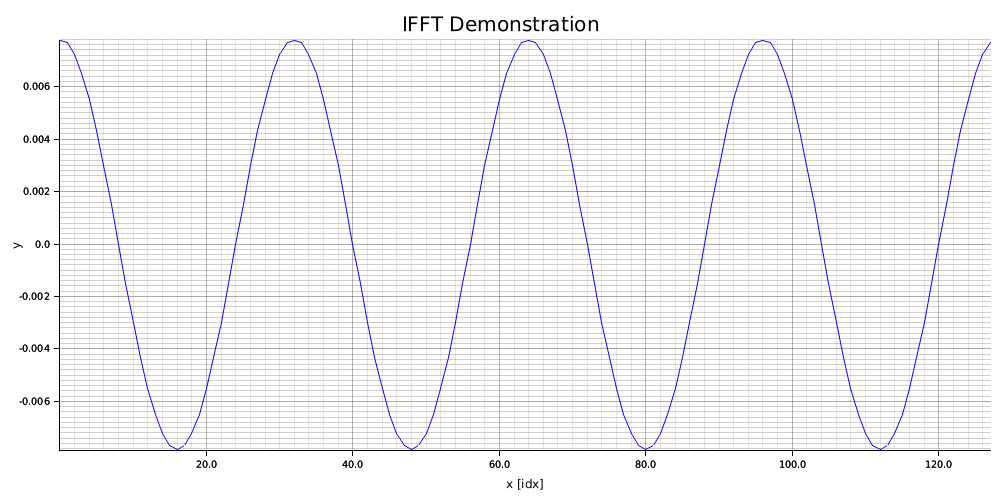
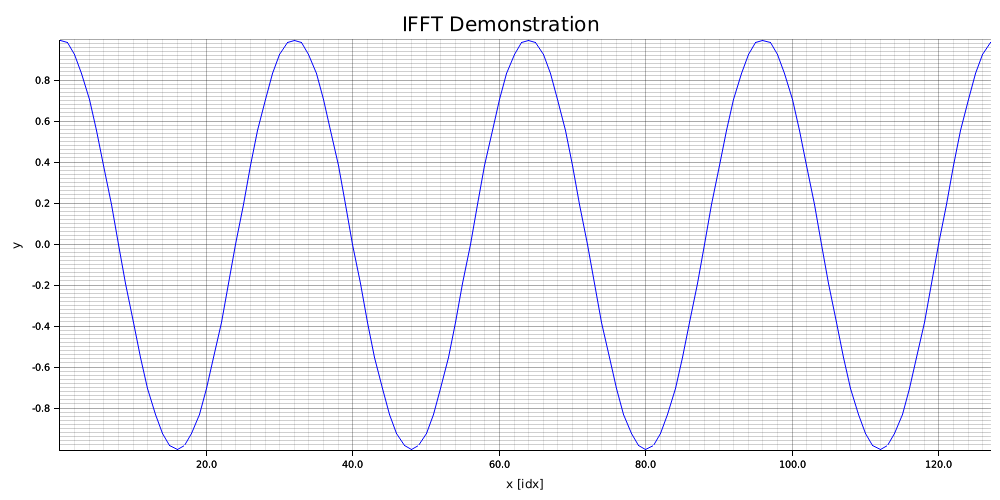
fix corrects fft scaling

Changed region(s): [[0.031, 0.06, 0.992, 0.9]]

diff --git a/src/vec/complex/fft.rs b/src/vec/complex/fft.rs
@@ -7,6 +7,12 @@ use mixed_num::complex::*;
 
 use crate::*;
 
+#[derive(PartialEq)]
+enum FftDirection {
+    Forward,
+    Backward,
+}
+
 /// Check if x is a power of two.
 /// 
 /// ## Argument
@@ -152,10 +158,10 @@ fn bitreverse_order<T>( arr: &mut [Cartesian<T>] )
 ///                         Cartesian::new(0.0,  0.25 )] );
 /// ```
 pub fn fft<T>( array: &mut [Cartesian<T>] )
-    where T: MixedReal + MixedNumSigned + MixedTrigonometry + MixedSqrt + MixedWrapPhase + MixedOps + MixedPi + MixedZero + MixedPowi
+    where T: MixedReal + MixedNumSigned + MixedNumConversion<T> + MixedTrigonometry + MixedSqrt + MixedWrapPhase + MixedOps + MixedPi + MixedZero + MixedPowi
 {
     // Process fft.
-    fft_processor(array, T::mixed_from_num(1));
+    fft_processor(array, FftDirection::Forward);
 
     // Decimation-in-freqency.
     bitreverse_order(array); // Bitreverse order
@@ -184,21 +190,21 @@ pub fn fft<T>( array: &mut [Cartesian<T>] )
 /// use fixed::types::extra::U28 as U;
 /// 
 /// const N:usize = 4;
-/// let mut arr  = vec![ Cartesian::new(1f32, 0f32 ); N  ];
+/// let mut arr  = vec![ Cartesian::new(0f32, 0f32 ); N  ];
 ///
-/// arr[3].re = 0f32;
+/// arr[3].re = 1f32;
 /// 
 /// ifft( &mut arr );
-/// assert_eq!( arr, vec![  Cartesian::new(0.75, 0.0  ),
-///                         Cartesian::new(0.0,  0.25 ),
-///                         Cartesian::new(0.25, 0.0  ),
-///                         Cartesian::new(0.0, -0.25 )] );
+/// assert_eq!( arr, vec![  Cartesian::new(4.0, 0.0  ),
+///                         Cartesian::new(0.0, -4.0 ),
+///                         Cartesian::new(-4.0, 0.0  ),
+///                         Cartesian::new(0.0, 4.0 )] );
 /// ```
 pub fn ifft<T>( vec: &mut Vec<Cartesian<T>> )
-    where T: MixedReal + MixedNumSigned + MixedTrigonometry + MixedSqrt + MixedWrapPhase + MixedOps + MixedPi + MixedZero + MixedOps + MixedPowi
+    where T: MixedReal + MixedNumSigned + MixedNumConversion<T> + MixedTrigonometry + MixedSqrt + MixedWrapPhase + MixedOps + MixedPi + MixedZero + MixedOps + MixedPowi
 {
     // Process fft.
-    fft_processor(vec, T::mixed_from_num(-1));
+    fft_processor(vec, FftDirection::Backward);
     // Decimation-in-freqency.
     bitreverse_order(vec); // Bitreverse order
 }
@@ -228,7 +234,6 @@ pub fn calculate_twiddle_factors<T>( n: usize, dir: T) -> crate::Vec<Cartesian<T
     let mut w = crate::Vec::<Cartesian<T>>::new_with_capacity(n/2);
 
     // Calculate Twiddle factor W.
-
     let mut angle:T = dir*-<T>::mixed_tau();
     for _i in 0..log2(n)
     {
@@ -246,16 +251,29 @@ pub fn calculate_twiddle_factors<T>( n: usize, dir: T) -> crate::Vec<Cartesian<T
         w.push_back( Cartesian::new( real, imag ) );
     }
     return w;
-}
+} 
 
 /// Shared fft processor for fft and ifft.
 /// Requires bit-reversion afterwards.
-fn fft_processor<T>( array: &mut [Cartesian<T>], dir: T )
-    where T: MixedReal + MixedNumSigned + MixedTrigonometry + MixedSqrt + MixedWrapPhase + MixedOps + MixedPi + MixedZero + MixedPowi
+fn fft_processor<T>( array: &mut [Cartesian<T>], dir: FftDirection )
+    where T: MixedReal + MixedNumSigned + MixedNumConversion<T> + MixedTrigonometry + MixedSqrt + MixedWrapPhase + MixedOps + MixedPi + MixedZero + MixedPowi
 {
+    let scale_factor:T;
+    let dir_val:T;
+    if dir == FftDirection::Forward
+    {
+        dir_val = T::mixed_from_num(1);
+        scale_factor=T::mixed_from_num(0.5);
+    }
+    else
+    {
+        dir_val = T::mixed_from_num(-1);
+        scale_factor=T::mixed_from_num(1);
+    }
+
     let n = array.len();
 
-    let w = calculate_twiddle_factors(n, dir);
+    let w = calculate_twiddle_factors(n, dir_val);
 
     // Number of butterfly computations per block.
     let mut num_butt:   usize = n/2;
@@ -270,7 +288,7 @@ fn fft_processor<T>( array: &mut [Cartesian<T>], dir: T )
     {
         // Iterate over blocks.
         for block in 0..num_blocks
-        {   
+        {       
             // Calculate indexes
             let pa = (block*n)/num_blocks;
             let pb = (block*n)/num_blocks + num_butt;
@@ -279,8 +297,8 @@ fn fft_processor<T>( array: &mut [Cartesian<T>], dir: T )
             for butt in 0..num_butt
             {
                 // Scale values to avoid overflow.
-                let mut a = mixed_num::div_scalar_cartesian( array[pa+butt], T::mixed_from_num(2) );
-                let mut b = mixed_num::div_scalar_cartesian( array[pb+butt], T::mixed_from_num(2) );
+                let mut a = array[pa+butt]* scale_factor;
+                let mut b = array[pb+butt]* scale_factor;
 
                 let w_idx:usize = w_idx_step_size*(butt);
                 let w_temp = w[ w_idx ];

diff --git a/src/vec/complex.rs b/src/vec/complex.rs
@@ -202,7 +202,7 @@ impl <T: MixedAbs> crate::traits::Mag<T> for Vec<T> {
     }
 }
 
-impl<T: MixedReal + MixedNumSigned + MixedTrigonometry + MixedSqrt + MixedWrapPhase + MixedOps + MixedPi + MixedZero + MixedPowi> Psd<T> for Vec<Cartesian<T>> {
+impl<T: MixedReal + MixedNumSigned + MixedNumConversion<T> + MixedTrigonometry + MixedSqrt + MixedWrapPhase + MixedOps + MixedPi + MixedZero + MixedPowi> Psd<T> for Vec<Cartesian<T>> {
     /// Calculate the Power Spectral Density (PSD) in linear scale of a signal.
     /// 
     /// Expects the signal length to be a power of two. If not, the signal is zero padded.
@@ -225,12 +225,12 @@ impl<T: MixedReal + MixedNumSigned + MixedTrigonometry + MixedSqrt + MixedWrapPh
     /// 
     /// assert_eq!(psd.to_string(), "[ 0.056531776, 0.87694174, 0.026191715, 0.009336119, 0.005968219, 0.0054317378, 0.006799792, 0.012798772 ]" );
     /// 
-    /// let signal = Vec::osc(angular_frequency, phase_rad, 256);
+    /// let signal = Vec::osc(angular_frequency, phase_rad, 128);
     /// let mut psd = signal.psd();
     /// 
     /// 
     /// let step:f32 = 2f32*f_sample/(psd.len() as f32);
-    /// let x_vec = Vec::lin_range(0f32, 2f32*f_sample-step, psd.len());
+    /// let x_vec    = Vec::lin_range(0f32, 2f32*f_sample-step, psd.len());
     /// 
     /// psd.pow2db();
     /// 
@@ -256,7 +256,7 @@ impl<T: MixedReal + MixedNumSigned + MixedTrigonometry + MixedSqrt + MixedWrapPh
     }
 }
 
-impl <T: MixedReal + MixedNumSigned + MixedTrigonometry + MixedSqrt + MixedWrapPhase + MixedOps + MixedPi + MixedZero + MixedPowi> traits::Fft for Vec<Cartesian<T>> {
+impl <T: MixedReal + MixedNumSigned + MixedNumConversion<T> + MixedTrigonometry + MixedSqrt + MixedWrapPhase + MixedOps + MixedPi + MixedZero + MixedPowi> traits::Fft for Vec<Cartesian<T>> {
     /// Calculate the Raddix-2 FFT for self.
     /// Scaled for each butterfly computation.
     /// Requires input size to be a power of two.
@@ -283,7 +283,7 @@ impl <T: MixedReal + MixedNumSigned + MixedTrigonometry + MixedSqrt + MixedWrapP
     }
 }
 
-impl <T: MixedReal + MixedNumSigned + MixedTrigonometry + MixedSqrt + MixedWrapPhase + MixedOps + MixedPi + MixedZero + MixedPowi> traits::Ifft for Vec<Cartesian<T>> {
+impl <T: MixedReal + MixedNumSigned + MixedNumConversion<T> + MixedTrigonometry + MixedSqrt + MixedWrapPhase + MixedOps + MixedPi + MixedZero + MixedPowi> traits::Ifft for Vec<Cartesian<T>> {
     /// Calculate the Raddix-2 IFFT for self.
     /// Scaled for each butterfly computation.
     /// Requires input size to be a power of two.

diff --git a/src/vec/plot.rs b/src/vec/plot.rs
@@ -150,3 +150,4 @@ impl <T:MixedNum + MixedReal + MixedNumSigned + MixedTrigonometry + MixedSqrt + 
         
     }
 }
+

diff --git a/ROADMAP.md b/ROADMAP.md
@@ -19,5 +19,7 @@
 
 ## Usability
 
-- [~] Implement a simplified plotting interface/example.
+- [x] Implement a simplified plotting interface/example.
+- [ ] Implement plotting for complex vectors.
+
 - [ ] Consider adding from_string method to simplify test-writing.
